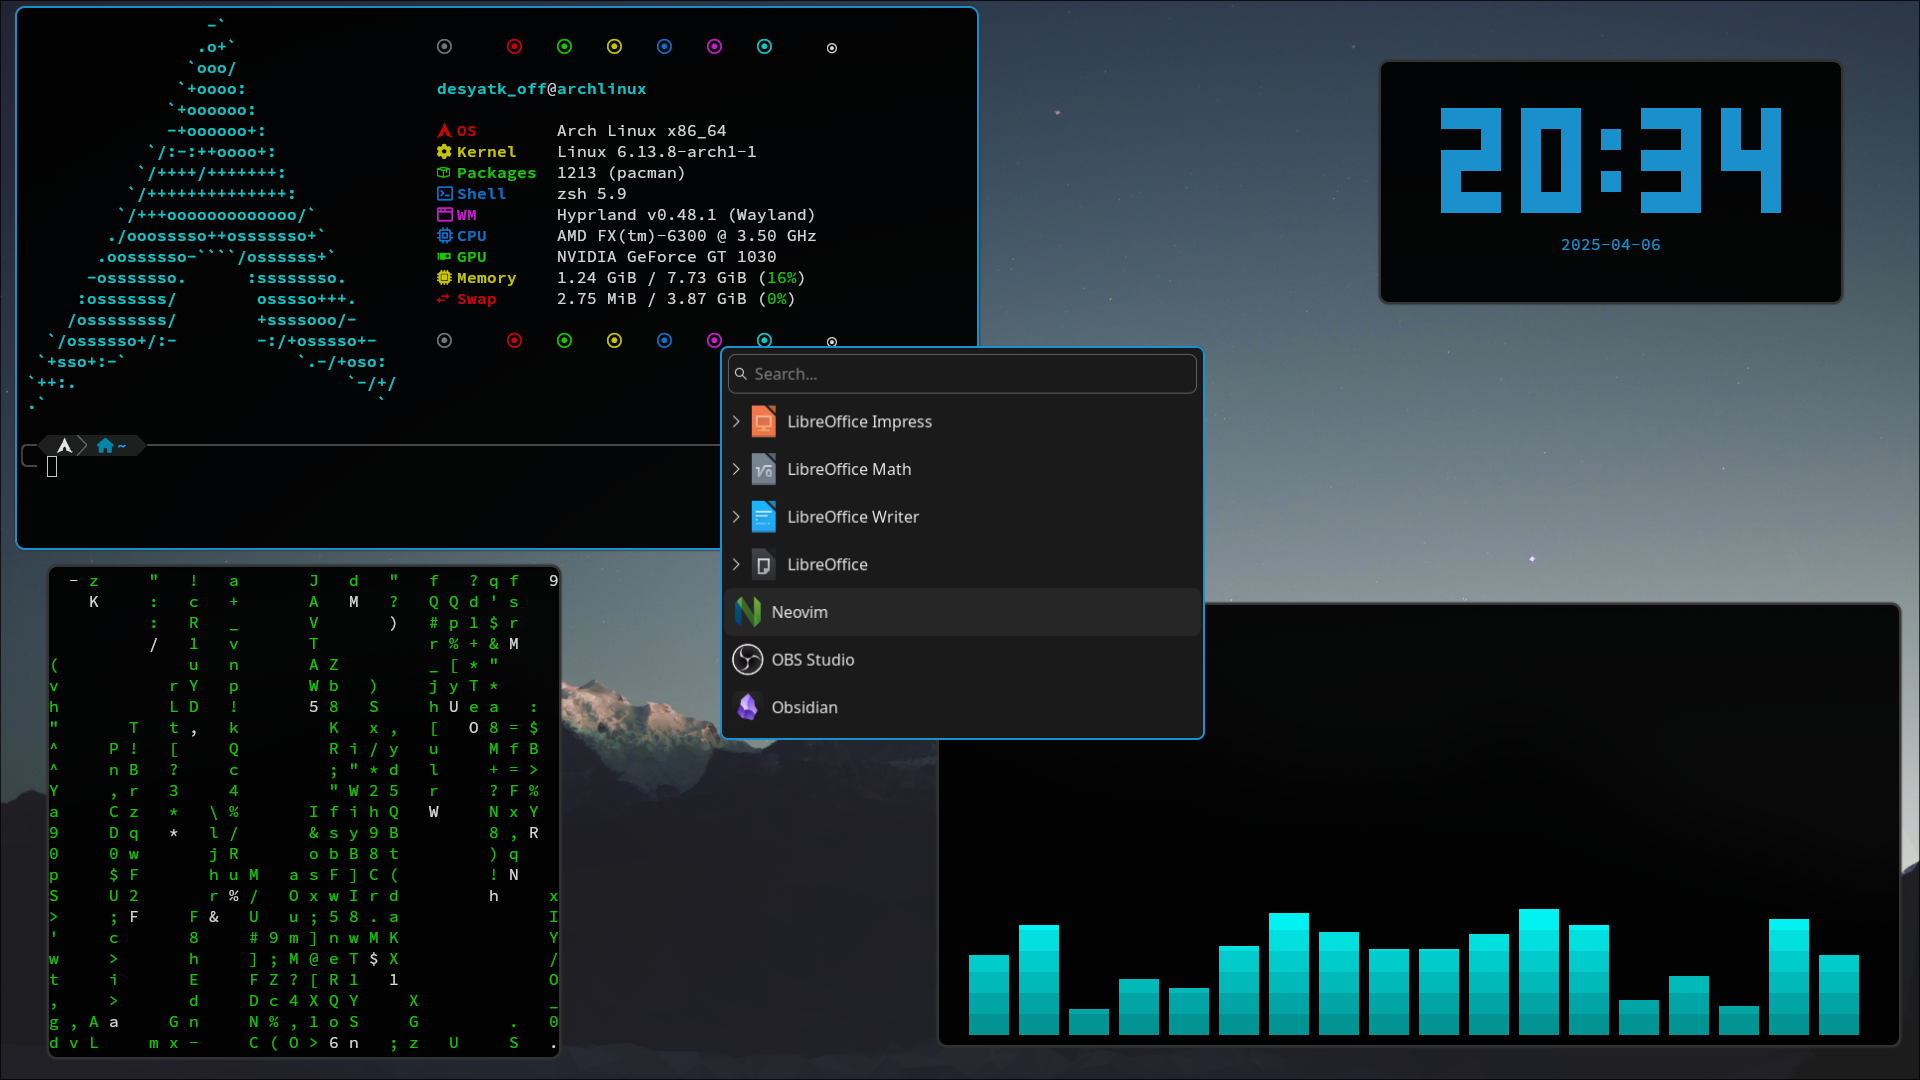
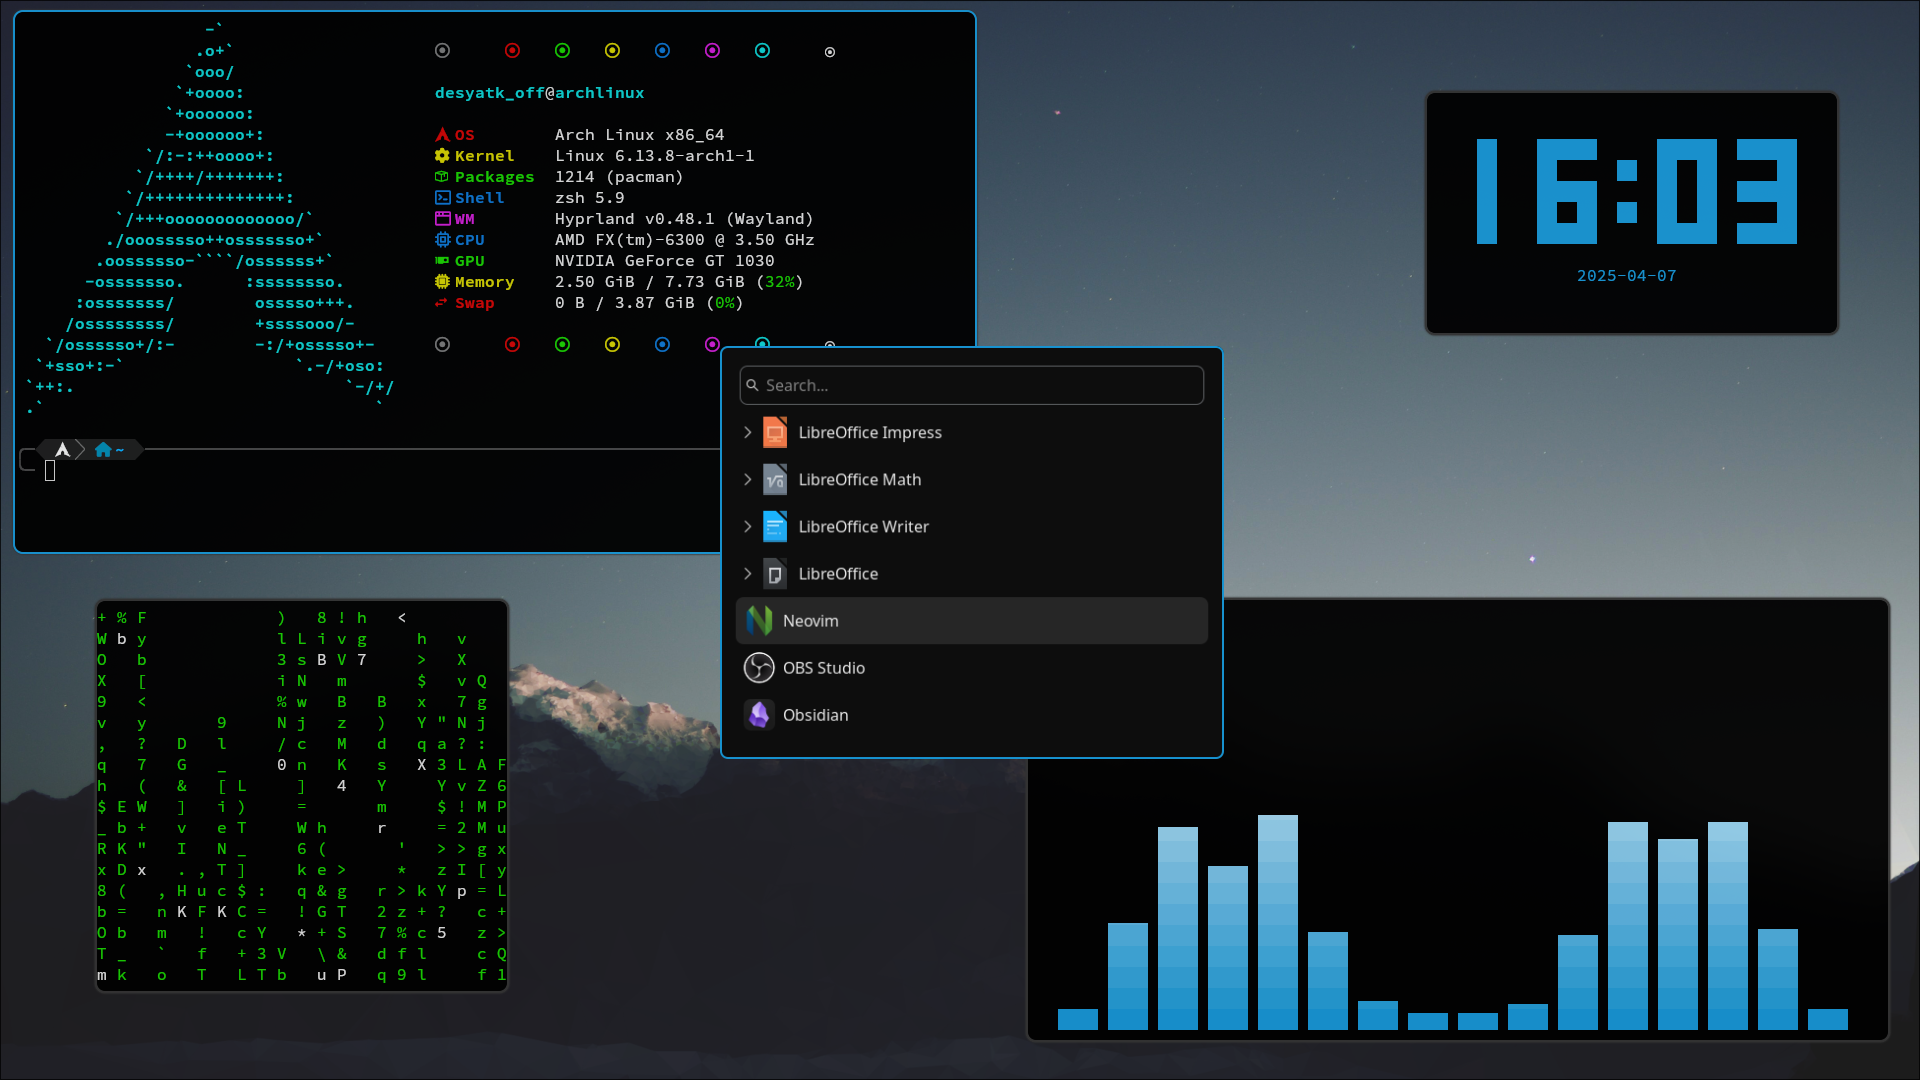
Update

Changed region(s): [[0.0, 0.1222, 1.0, 0.9778], [0.7188, 0.0306, 0.9688, 0.3361], [0.0, 0.0, 0.5, 0.3667]]

diff --git a/wofi/style.css b/wofi/style.css
@@ -9,7 +9,7 @@
     margin: 4px;
     padding: 4px;
     border-radius: 8px;
-    background: #1a1a1a;
+    background: #0d0d0d;
     border: 2px solid #1793d1;
 }
 
@@ -20,7 +20,7 @@
 }
 
 #outer-box {
-    padding: 4px;
+    padding: 16px;
 }
 
 #img {

diff --git a/README.md b/README.md
@@ -2,15 +2,9 @@
 
 ## Description
 
-**This repository stores my dotfiles that I personally use at the moment. You can use this as a base config**
+This repository stores my dotfiles that I personally use at the moment. You can use this as a base config
 
-*There are configs you can get:*
-* Cava
-* Fastfetch
-* Hyprland
-* Kitty
-* Peaclock
-* Wofi
+Please, check the `install.sh` script before launching (or even manually install, without the script)
 
 
 ## Preview
